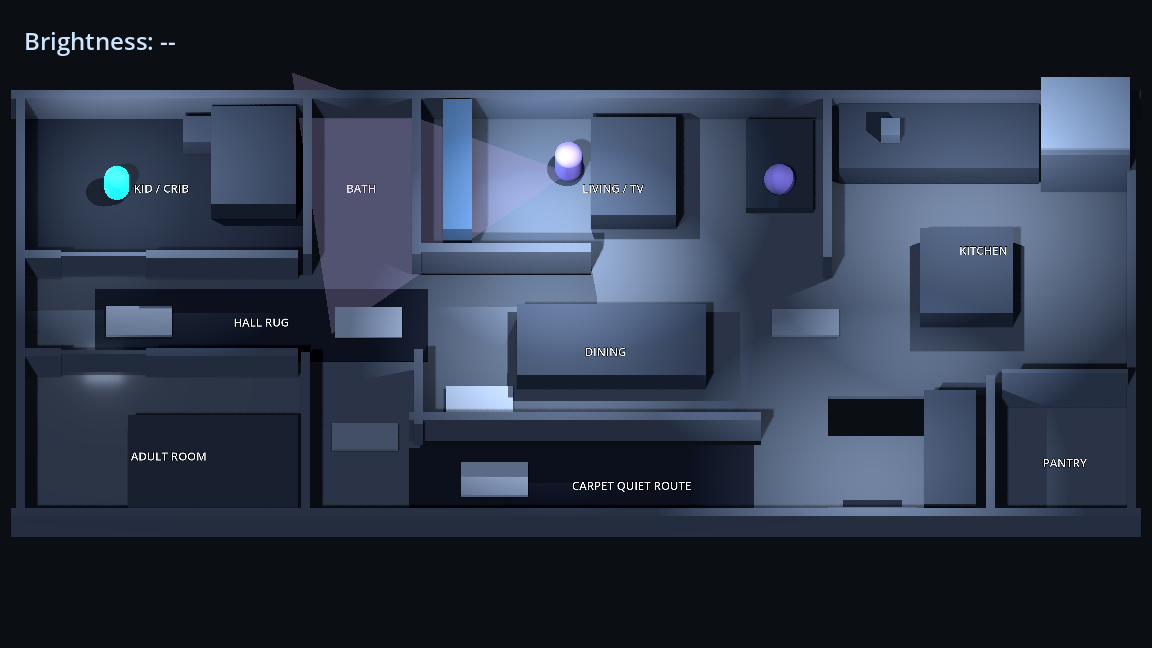
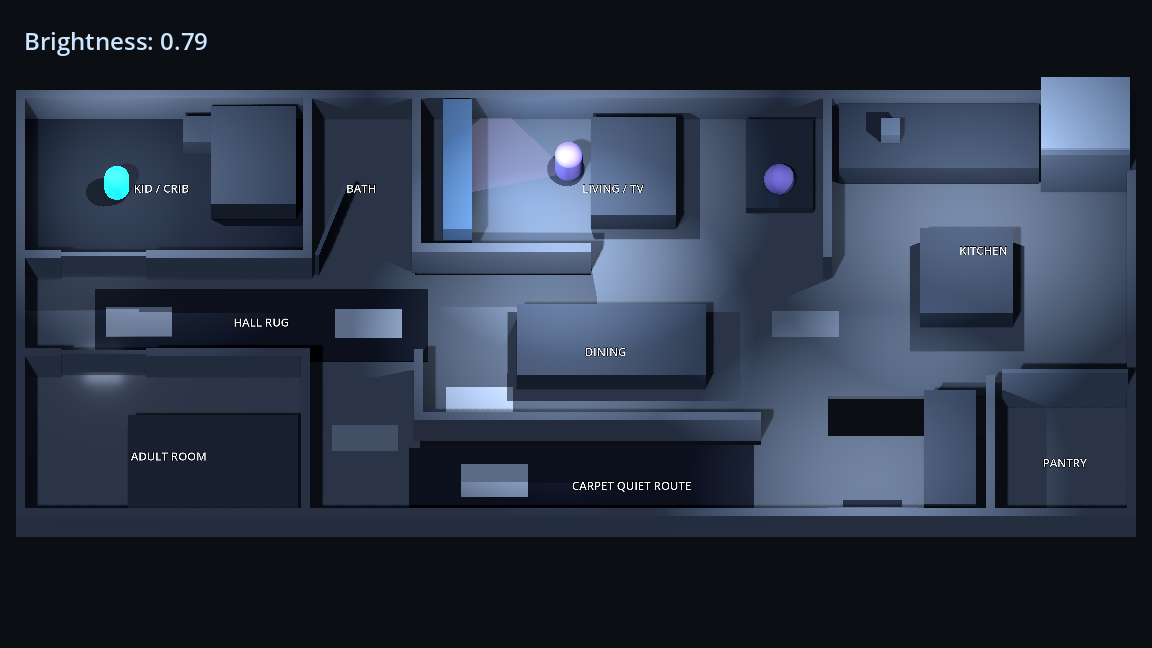
Fix A4.1 playtest regressions

diff --git a/gamejam/WIRING.md b/gamejam/WIRING.md
@@ -8,7 +8,7 @@ Format: `- [ ] (who asked) what is needed, which scene, why`
 
 ## Open
 
-- [ ] (lane B) Replace `Pet`'s `AgentStub.gd` with `res://scripts/Pet.gd` in `Main.tscn`; keep the existing `Body` mesh and `NavigationAgent3D`. Default sibling/node paths resolve `Player`, `Body`, and `NavigationAgent3D`.
+_None._
 
 ## Done
 
@@ -20,3 +20,7 @@ Format: `- [ ] (who asked) what is needed, which scene, why`
 - [x] (lane B) Replaced Parent's AgentStub with `Parent.gd`, added
   `VisionCone`, retained its NavigationAgent3D, and set the routine rows to the
   A0.2 couch, kitchen, and kid-door coordinates. Default sibling paths resolve.
+- [x] (lane B) Replaced Pet's AgentStub with `Pet.gd`; retained `Body` and
+  `NavigationAgent3D`, and verified its default sibling paths resolve.
+- [x] (lane B) Removed legacy `CollisionShape3D` children from all three
+  `DoorVisual` nodes; `Door.gd` now owns the runtime doorway blockers.